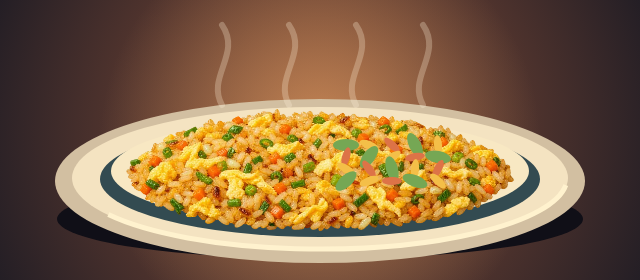
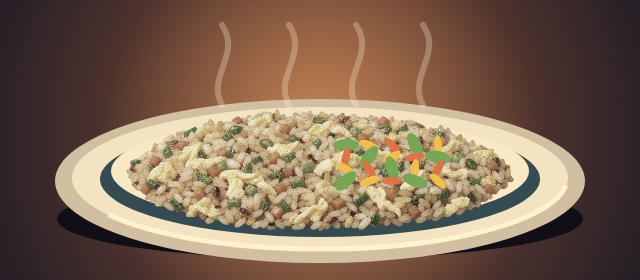
Make unmixed rice visibly pale beside clustered ingredients

Changed region(s): [[0.1875, 0.4, 0.8125, 0.8286]]

diff --git a/chahan/art.js b/chahan/art.js
@@ -224,7 +224,7 @@ export function drawDish(ctx, game) {
   const amount = look.portion;
   if (paintedRice.complete && paintedRice.naturalWidth) {
     ctx.save();
-    ctx.filter = look.pale > .2 ? `saturate(${1 - look.pale * .36}) brightness(${1 + look.pale * .13})` : look.char > .1 ? `sepia(${look.char * .36}) brightness(${1 - look.char * .2})` : 'none';
+    ctx.filter = `saturate(${Math.max(.2, 1 - look.unmixed * .65 - look.pale * .2)}) brightness(${1 + look.pale * .13 - look.char * .2}) sepia(${look.char * .36})`;
     ctx.drawImage(paintedRice, 320 - 197 * amount, 103, 394 * amount, 132 * amount);
     ctx.restore();
   } else {

diff --git a/assets/chahan-core.js b/assets/chahan-core.js
@@ -103,6 +103,7 @@ export function dishAppearance(game) {
     portion: Math.sqrt(rice),
     scatteredIngredients: Math.round((1 - mix) * rice * 20),
     mixedIngredients: Math.round(mix * rice * 25),
+    unmixed: 1 - mix,
     glaze: game.seasoned ? seasoning : 0,
     pale: clamp((.55 - cook) / .55),
     char: clamp((cook - 1.05) / .5),
